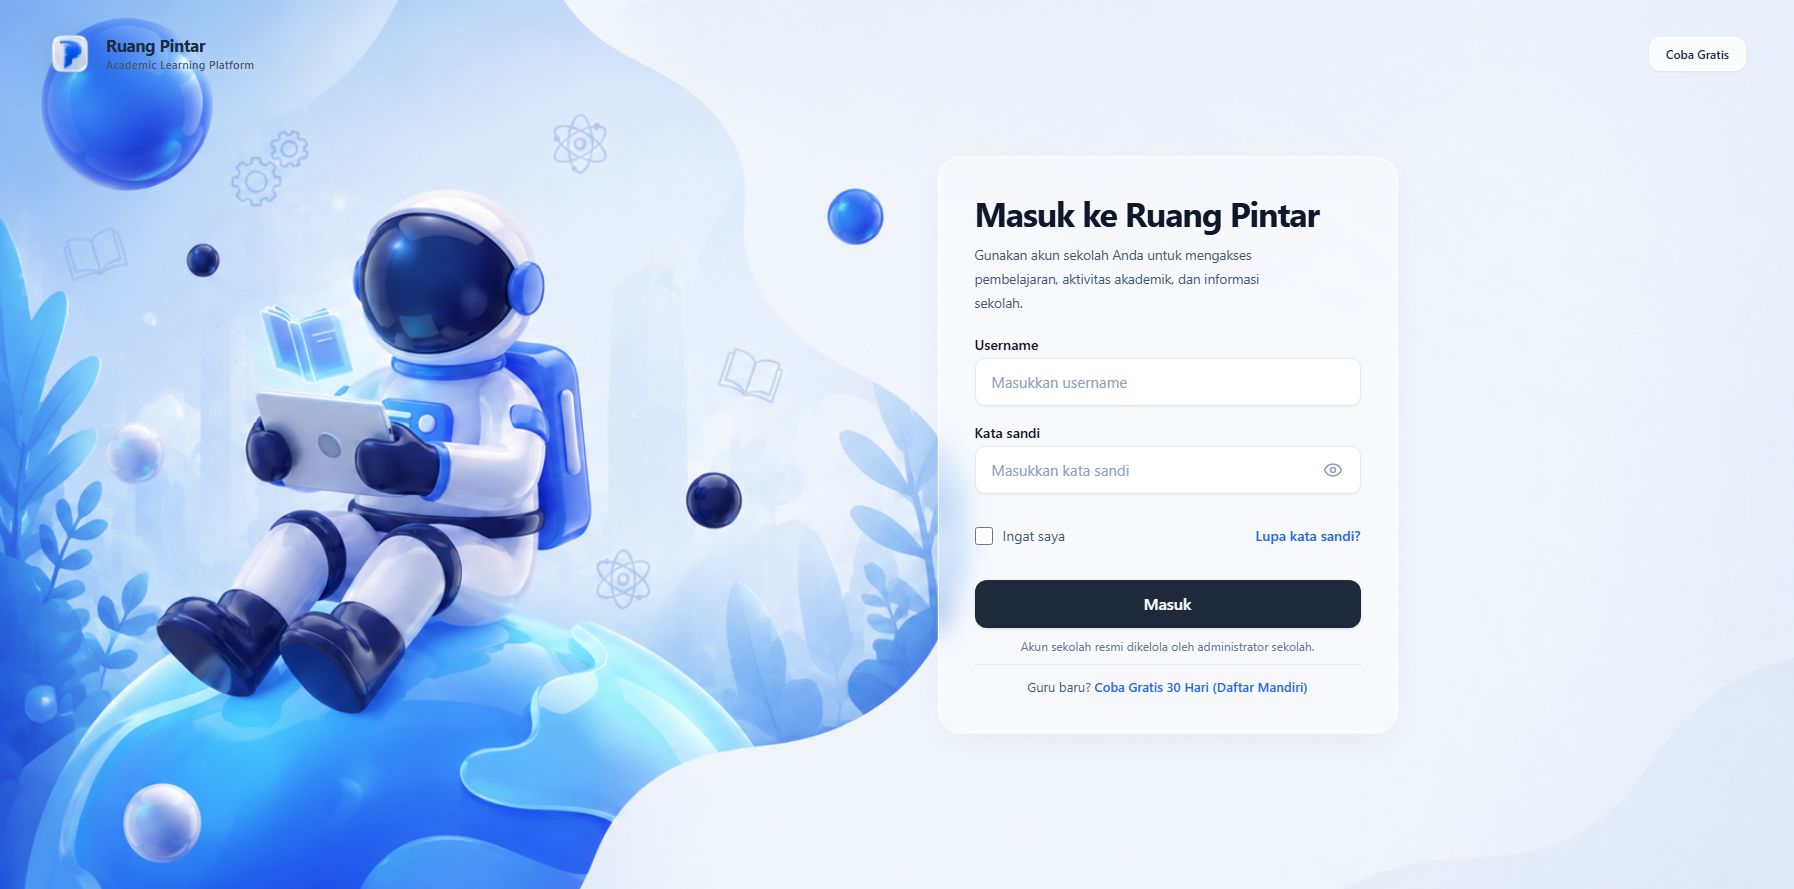
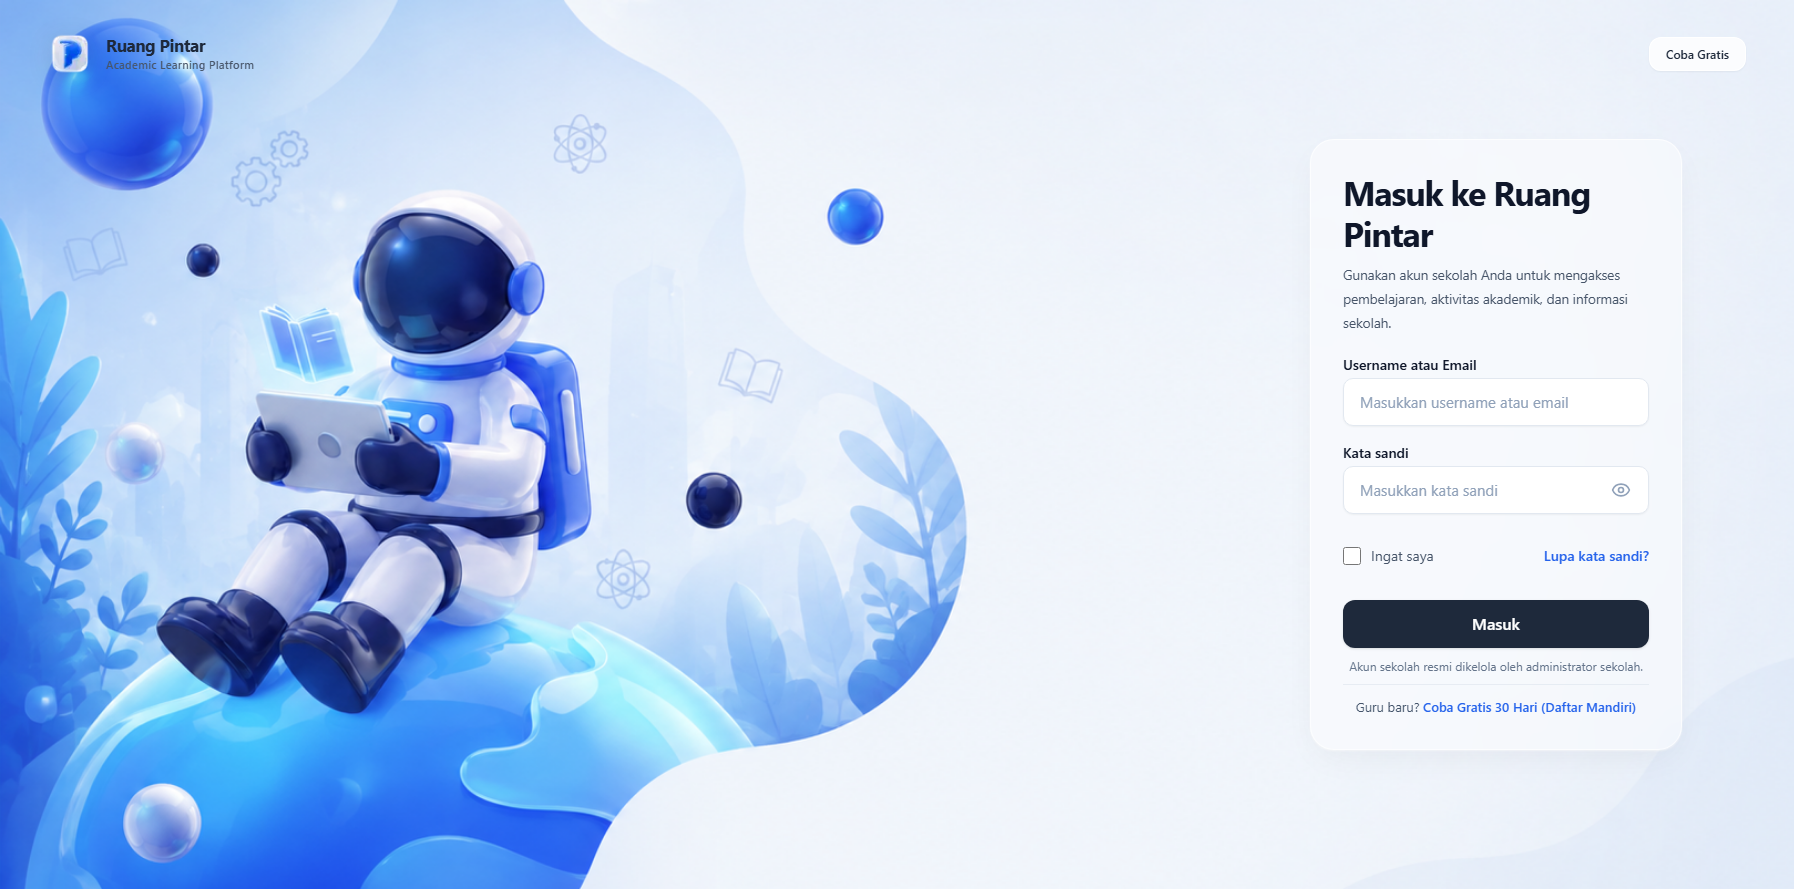
feat(auth): refine login form right margin, add username/email dual login, and register Wardah Ulfah Fauzziyah, S.Pd.

diff --git a/src/shared/components/auth/auth-login-layout.tsx b/src/shared/components/auth/auth-login-layout.tsx
@@ -88,18 +88,18 @@ export function AuthLoginLayout({
         </div>
       </header>
 
-      {/* Main Container - Balanced Center-Right positioning with subtle glass effect */}
-      <main className="relative z-10 min-h-[100dvh] w-full flex flex-col justify-between pt-20 sm:pt-24 lg:grid lg:grid-cols-[minmax(0,1.12fr)_minmax(420px,470px)_minmax(0,0.42fr)] xl:grid-cols-[minmax(0,1.2fr)_minmax(440px,480px)_minmax(0,0.5fr)] lg:grid-rows-1 lg:pt-0">
+      {/* Main Container - Balanced right positioning shifted gently from edge */}
+      <main className="relative z-10 min-h-[100dvh] w-full flex flex-col justify-between pt-20 sm:pt-24 lg:grid lg:grid-cols-[minmax(0,1.08fr)_minmax(440px,520px)] xl:grid-cols-[minmax(0,1.15fr)_minmax(450px,500px)] lg:grid-rows-1 lg:pt-0">
         {/* Left Column Spacer (Full artwork shines through) */}
         <div className="hidden lg:block pointer-events-none" aria-hidden="true" />
 
-        {/* Center-Right Form Container: Shifted comfortably inward from right edge */}
-        <section className="relative z-10 flex w-full flex-col justify-start lg:justify-center items-center px-4 sm:px-6 lg:px-0 pt-4 pb-8 lg:py-12">
+        {/* Right Form Container: Shifted gently inward with modest breathing room */}
+        <section className="relative z-10 flex w-full flex-col justify-start lg:justify-center items-center lg:items-start px-6 sm:px-8 lg:pl-4 lg:pr-14 xl:pr-20 2xl:pr-28 pt-4 pb-8 lg:py-12">
           {/* Subtle Frosted Glass Container (Effek Glass Tipis) */}
           <div
             className={`w-full ${
-              wideForm ? "max-w-[540px]" : "max-w-[430px] sm:max-w-[460px]"
-            } rounded-2xl sm:rounded-3xl bg-white/45 backdrop-blur-md border border-white/65 shadow-[0_12px_36px_-8px_rgba(15,23,42,0.06),0_1px_2px_rgba(255,255,255,0.7)] p-6 sm:p-8 lg:p-9 transition-all`}
+              wideForm ? "max-w-[540px]" : "max-w-[420px] sm:max-w-[440px]"
+            } rounded-2xl sm:rounded-3xl bg-white/45 backdrop-blur-md border border-white/65 shadow-[0_12px_36px_-8px_rgba(15,23,42,0.06),0_1px_2px_rgba(255,255,255,0.7)] p-6 sm:p-8 transition-all`}
           >
             {/* Optional Back Link */}
             {backLink && (
@@ -133,9 +133,6 @@ export function AuthLoginLayout({
             {children}
           </div>
         </section>
-
-        {/* Right Spacer (Guarantees form never hugs the right edge) */}
-        <div className="hidden lg:block pointer-events-none" aria-hidden="true" />
       </main>
     </div>
   );

diff --git a/src/app/register/register-form.tsx b/src/app/register/register-form.tsx
@@ -99,6 +99,24 @@ export function RegisterForm() {
         />
       </div>
 
+      {/* Username Akun */}
+      <div className="flex flex-col gap-1">
+        <div className="flex items-center justify-between">
+          <label htmlFor="username" className="text-xs sm:text-sm font-semibold text-[#0F172A] select-none">
+            Username Akun
+          </label>
+          <span className="text-[11px] text-slate-500 font-medium">Bisa otomatis dari email</span>
+        </div>
+        <Input
+          id="username"
+          name="username"
+          type="text"
+          disabled={isPending}
+          placeholder="cth: wardahulfa (opsional, untuk login)"
+          className="h-10 sm:h-11 bg-white! text-slate-900! border-slate-200! placeholder:text-slate-400! shadow-xs text-[13px] sm:text-[14px]"
+        />
+      </div>
+
       {/* Nama Sekolah */}
       <div className="flex flex-col gap-1">
         <label htmlFor="nama_sekolah" className="text-xs sm:text-sm font-semibold text-[#0F172A] select-none">

diff --git a/src/app/login/login-form.tsx b/src/app/login/login-form.tsx
@@ -57,10 +57,10 @@ export function LoginForm({ status }: { status?: string }) {
         </div>
       )}
 
-      {/* Username Field */}
+      {/* Username or Email Field */}
       <div className="flex flex-col gap-1.5">
         <Label htmlFor="username" className="text-xs sm:text-sm font-semibold text-[#0F172A]">
-          Username
+          Username atau Email
         </Label>
         <Input
           id="username"
@@ -70,7 +70,7 @@ export function LoginForm({ status }: { status?: string }) {
           required
           disabled={isPending}
           isError={Boolean(errorMessage)}
-          placeholder="Masukkan username"
+          placeholder="Masukkan username atau email"
           inputSize="lg"
           className="h-11 sm:h-12 text-[14px] sm:text-[15px] bg-white! text-slate-900! border-slate-200! placeholder:text-slate-400! shadow-xs"
         />

diff --git a/src/modules/ai-assistant/application/smart-onboarding-service.ts b/src/modules/ai-assistant/application/smart-onboarding-service.ts
@@ -50,8 +50,20 @@ export class SmartOnboardingService {
       );
     }
 
-    // Buat username ramah dari email atau nama
-    const baseUsername = normalizedEmail
+    // Buat username ramah dari input pengguna atau email
+    const requestedUsername = dto.username?.trim().toLowerCase().replace(/[^a-zA-Z0-9_]/g, "");
+    if (requestedUsername) {
+      const existingUser = await prisma.pengguna.findUnique({
+        where: { username: requestedUsername },
+      });
+      if (existingUser) {
+        throw new UserRegistrationError(
+          "Username tersebut sudah digunakan. Silakan pilih username lain."
+        );
+      }
+    }
+
+    const baseUsername = requestedUsername || normalizedEmail
       .split("@")[0]
       .replace(/[^a-zA-Z0-9_]/g, "_")
       .substring(0, 20);

diff --git a/src/modules/ai-assistant/domain/ai-validation.ts b/src/modules/ai-assistant/domain/ai-validation.ts
@@ -9,6 +9,13 @@ export const SmartOnboardingRegistrationSchema = z.object({
     .string()
     .min(3, "Nama lengkap minimal 3 karakter")
     .max(100, "Nama lengkap maksimal 100 karakter"),
+  username: z
+    .string()
+    .min(3, "Username minimal 3 karakter")
+    .max(30, "Username maksimal 30 karakter")
+    .regex(/^[a-zA-Z0-9_]+$/, "Username hanya boleh huruf, angka, dan underscore")
+    .optional()
+    .or(z.literal("")),
   email: z.string().email("Format email tidak valid"),
   no_telepon: z
     .string()

diff --git a/src/app/actions/smart-onboarding-actions.ts b/src/app/actions/smart-onboarding-actions.ts
@@ -36,6 +36,7 @@ export async function registerTeacherAction(
   try {
     const rawData = {
       nama_lengkap: formData.get("nama_lengkap")?.toString() ?? "",
+      username: formData.get("username")?.toString()?.trim() || undefined,
       email: formData.get("email")?.toString() ?? "",
       no_telepon: formData.get("no_telepon")?.toString() ?? undefined,
       password: formData.get("password")?.toString() ?? "",

diff --git a/src/shared/infrastructure/auth/auth-service.ts b/src/shared/infrastructure/auth/auth-service.ts
@@ -72,9 +72,14 @@ export class AuthService {
       };
     }
 
-    // 2. Lookup User
-    const user = await prisma.pengguna.findUnique({
-      where: { username },
+    // 2. Lookup User by username OR email
+    const user = await prisma.pengguna.findFirst({
+      where: {
+        OR: [
+          { username },
+          { email: username },
+        ],
+      },
     });
 
     if (!user) {

diff --git a/src/modules/ai-assistant/domain/ai-types.ts b/src/modules/ai-assistant/domain/ai-types.ts
@@ -22,6 +22,7 @@ export interface ClassExtractionResult {
 
 export interface SmartOnboardingRegistrationDTO {
   nama_lengkap: string;
+  username?: string;
   email: string;
   no_telepon?: string;
   password: string;
